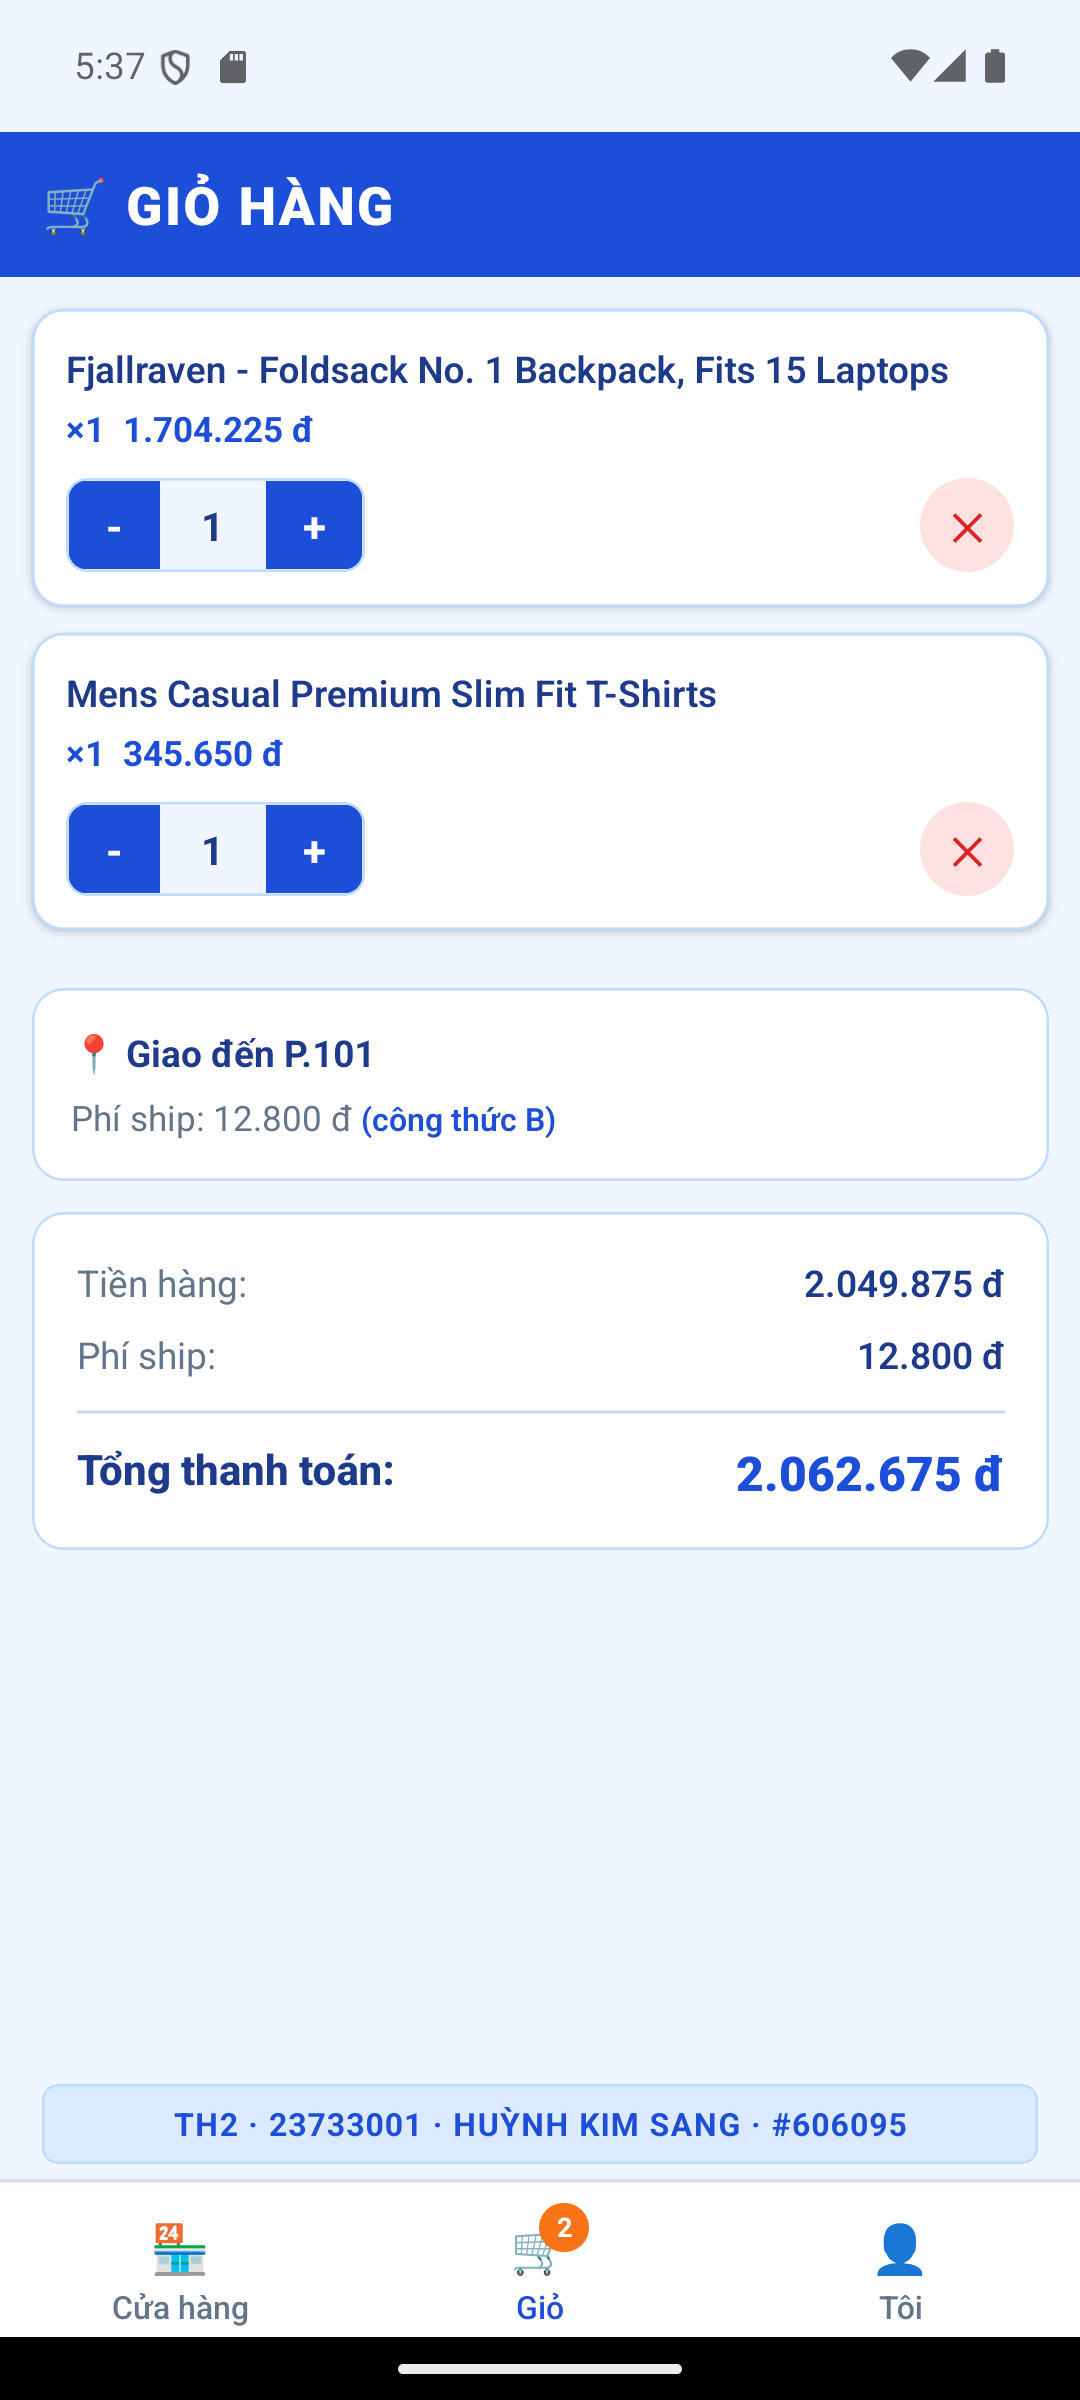
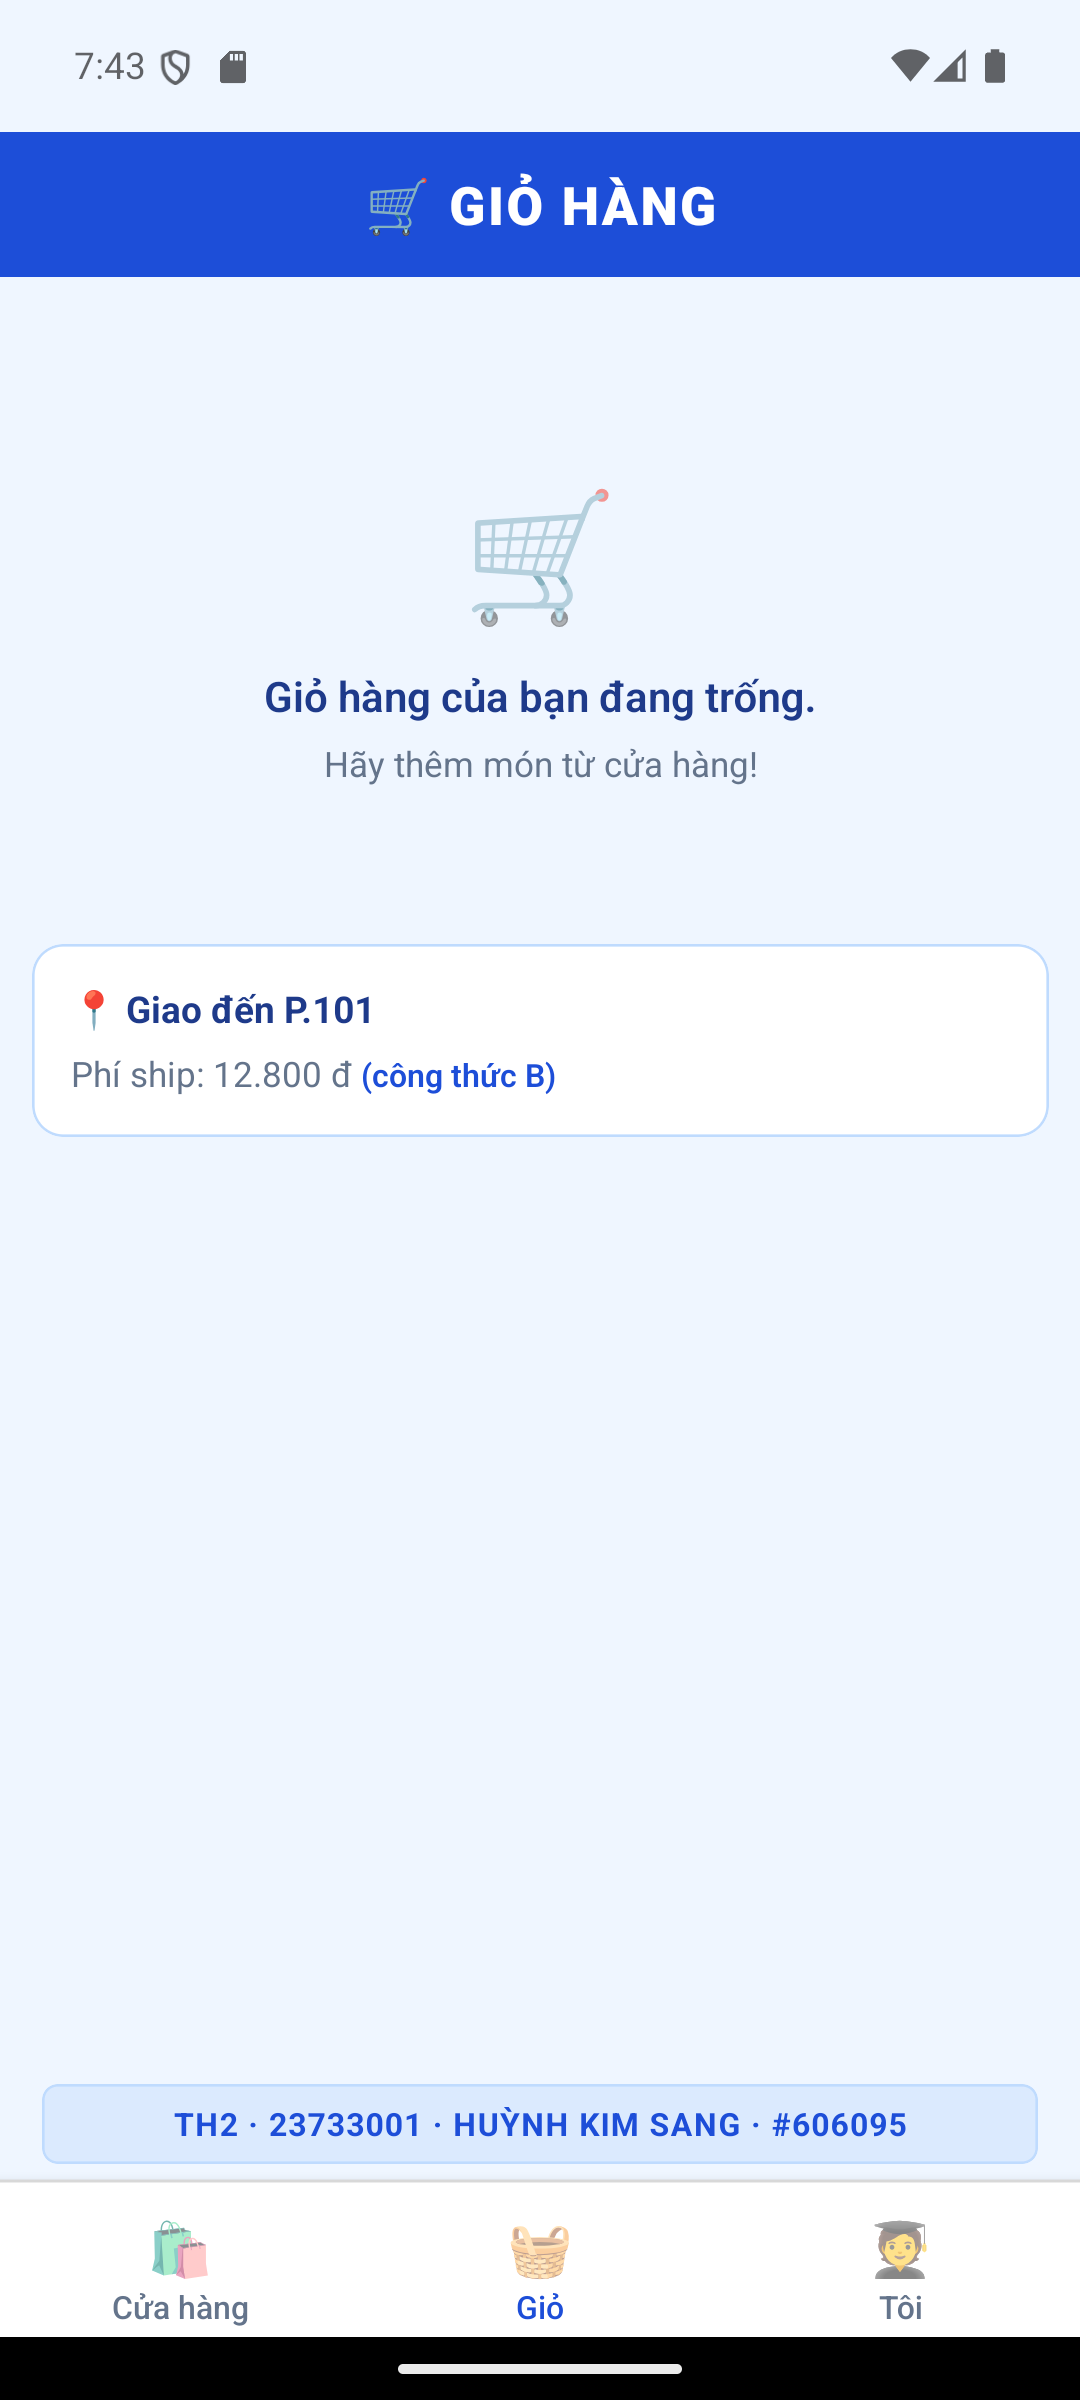
Initial commit 5 - Cap nhat giao dien - TH2 23733001

diff --git a/src/navigation/MainTabs.tsx b/src/navigation/MainTabs.tsx
@@ -48,8 +48,8 @@ export const MainTabs: React.FC = () => {
                 fontSize: 10,
                 fontWeight: 'bold',
               },
-              tabBarIcon: ({ color }) => (
-                <Text style={[styles.tabIcon, { color }]}>🛒</Text>
+              tabBarIcon: () => (
+                <Text style={styles.tabIcon}>🧺</Text>
               ),
             }}
           />
@@ -58,8 +58,8 @@ export const MainTabs: React.FC = () => {
             component={ShopStack}
             options={{
               tabBarLabel: 'Cửa hàng',
-              tabBarIcon: ({ color }) => (
-                <Text style={[styles.tabIcon, { color }]}>🏪</Text>
+              tabBarIcon: () => (
+                <Text style={styles.tabIcon}>🛍</Text>
               ),
             }}
           />
@@ -68,8 +68,8 @@ export const MainTabs: React.FC = () => {
             component={MeScreen}
             options={{
               tabBarLabel: 'Tôi',
-              tabBarIcon: ({ color }) => (
-                <Text style={[styles.tabIcon, { color }]}>👤</Text>
+              tabBarIcon: () => (
+                <Text style={styles.tabIcon}>🧑🎓</Text>
               ),
             }}
           />
@@ -81,8 +81,8 @@ export const MainTabs: React.FC = () => {
             component={ShopStack}
             options={{
               tabBarLabel: 'Cửa hàng',
-              tabBarIcon: ({ color }) => (
-                <Text style={[styles.tabIcon, { color }]}>🏪</Text>
+              tabBarIcon: () => (
+                <Text style={styles.tabIcon}>🛍</Text>
               ),
             }}
           />
@@ -98,8 +98,8 @@ export const MainTabs: React.FC = () => {
                 fontSize: 10,
                 fontWeight: 'bold',
               },
-              tabBarIcon: ({ color }) => (
-                <Text style={[styles.tabIcon, { color }]}>🛒</Text>
+              tabBarIcon: () => (
+                <Text style={styles.tabIcon}>🧺</Text>
               ),
             }}
           />
@@ -108,8 +108,8 @@ export const MainTabs: React.FC = () => {
             component={MeScreen}
             options={{
               tabBarLabel: 'Tôi',
-              tabBarIcon: ({ color }) => (
-                <Text style={[styles.tabIcon, { color }]}>👤</Text>
+              tabBarIcon: () => (
+                <Text style={styles.tabIcon}>🧑🎓</Text>
               ),
             }}
           />
@@ -121,7 +121,7 @@ export const MainTabs: React.FC = () => {
 
 const styles = StyleSheet.create({
   tabIcon: {
-    fontSize: 18,
+    fontSize: 20,
   },
 });
 

diff --git a/src/screens/HomeScreen.tsx b/src/screens/HomeScreen.tsx
@@ -148,26 +148,31 @@ const styles = StyleSheet.create({
   header: {
     flexDirection: 'row',
     alignItems: 'center',
-    justifyContent: 'space-between',
+    justifyContent: 'center',
     paddingHorizontal: 16,
     paddingVertical: 12,
     backgroundColor: theme.primary,
+    position: 'relative',
   },
   headerContent: {
-    flex: 1,
+    alignItems: 'center',
   },
   headerBrand: {
     fontSize: 22,
     fontWeight: '900',
     color: '#FFFFFF',
     letterSpacing: 2,
+    textAlign: 'center',
   },
   headerRoom: {
     fontSize: 12,
     color: '#BFDBFE',
     marginTop: 1,
+    textAlign: 'center',
   },
   sectionTag: {
+    position: 'absolute',
+    right: 16,
     fontSize: 11,
     fontWeight: '700',
     color: '#FFFFFF',

diff --git a/src/screens/MeScreen.tsx b/src/screens/MeScreen.tsx
@@ -146,12 +146,15 @@ const styles = StyleSheet.create({
     paddingHorizontal: 16,
     paddingVertical: 14,
     backgroundColor: theme.primary,
+    alignItems: 'center',
+    justifyContent: 'center',
   },
   headerTitle: {
     fontSize: 20,
     fontWeight: '900',
     color: '#FFFFFF',
     letterSpacing: 0.5,
+    textAlign: 'center',
   },
   content: {
     padding: 16,

diff --git a/src/screens/CartScreen.tsx b/src/screens/CartScreen.tsx
@@ -136,12 +136,15 @@ const styles = StyleSheet.create({
     paddingHorizontal: 16,
     paddingVertical: 14,
     backgroundColor: theme.primary,
+    alignItems: 'center',
+    justifyContent: 'center',
   },
   headerTitle: {
     fontSize: 20,
     fontWeight: '900',
     color: '#FFFFFF',
     letterSpacing: 1,
+    textAlign: 'center',
   },
   content: {
     padding: 12,

diff --git a/README.md b/README.md
@@ -1,4 +1,4 @@
-# HUỲNH KIM SANG - MSSV: 23733001 - URL: https://github.com/huynh-kim-sang/23733001_TH2.git - Stamp: #606095 - Số cuối: 1 - VARIANT: Dưới | phone | Shop→Giỏ→Tôi | selection | B | card
+# HUỲNH KIM SANG - MSSV: 23733001 - URL: https://github.com/huynhkimsangpy2022-a11y/23733001_TH2.git - Stamp: #606095 - Số cuối: 1 - VARIANT: Dưới | phone | Shop→Giỏ→Tôi | selection | B | card
 
 ## THÔNG TIN BÀI THI THỰC HÀNH 2 - KTXGO
 - **Họ và tên:** HUỲNH KIM SANG
